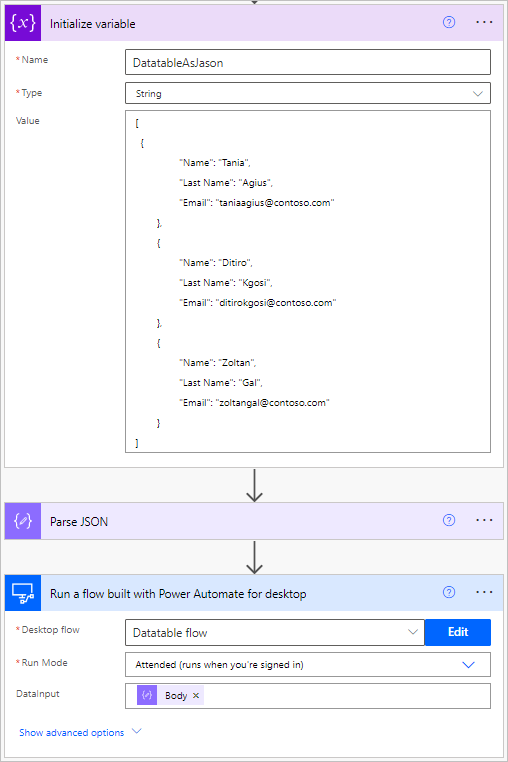
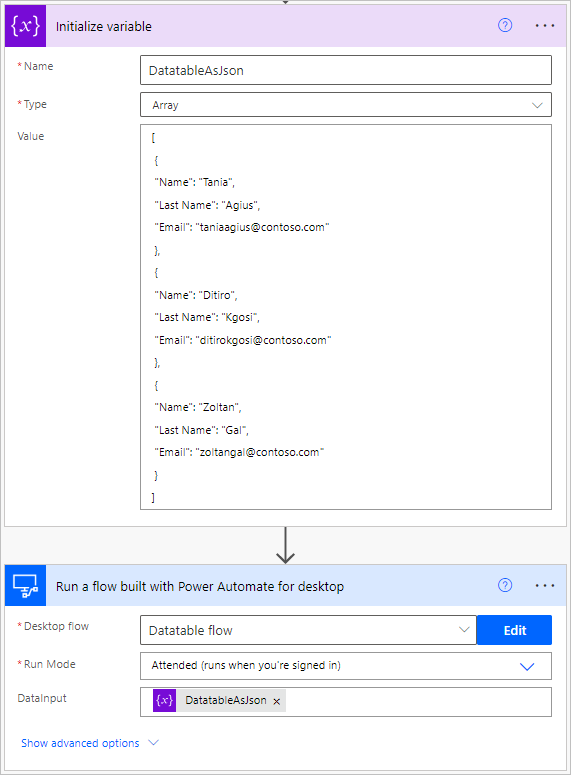
Updated content in Pass a datatable from a cloud flow to a desktop flow

Changed region(s): [[0.0, 0.0, 1.0, 0.9659], [0.0295, 0.1207, 0.0886, 0.1811], [0.9744, 0.664, 1.0, 0.6942]]

diff --git a/articles/desktop-flows/how-to/passing-datatable.md b/articles/desktop-flows/how-to/passing-datatable.md
@@ -23,12 +23,12 @@ Some automation scenarios require users to pass data in tabular form from a clou
 
     ![Screenshot of the Add a new input variable dialog.](media/passing-datatable/creating-new-input-variable.png)
 
-1. Inside your cloud flow, initialize a new string variable with a JSON text representing your datatable. Then, parse it and use the result as an input value in the **Run a flow built with Power Automate for desktop** action.
+1. Inside your cloud flow, initialize a new variable of type array with an array of objects (JSON) representing your datatable. Then, use it as an input value in the **Run a flow built with Power Automate for desktop** action.
 
     ![Screenshot of the created cloud flow that passes the datatable in a JSON format.](media/passing-datatable/cloud-flow-pass-datatable.png)
 
 
-      In the following example, you can see the structure of a JSON block.
+      In the following example, you can see the structure of a JSON block:
 
     ``` JSON
     [
